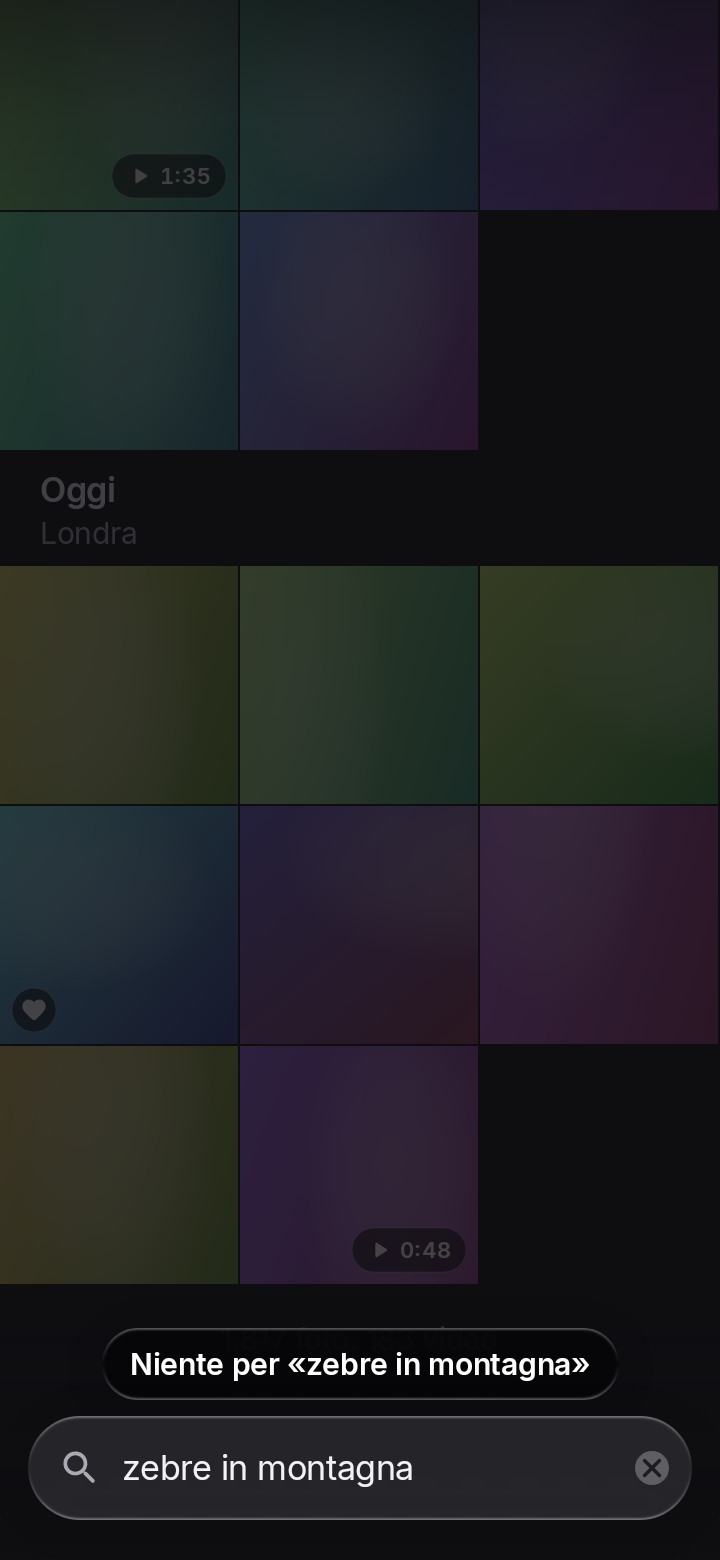
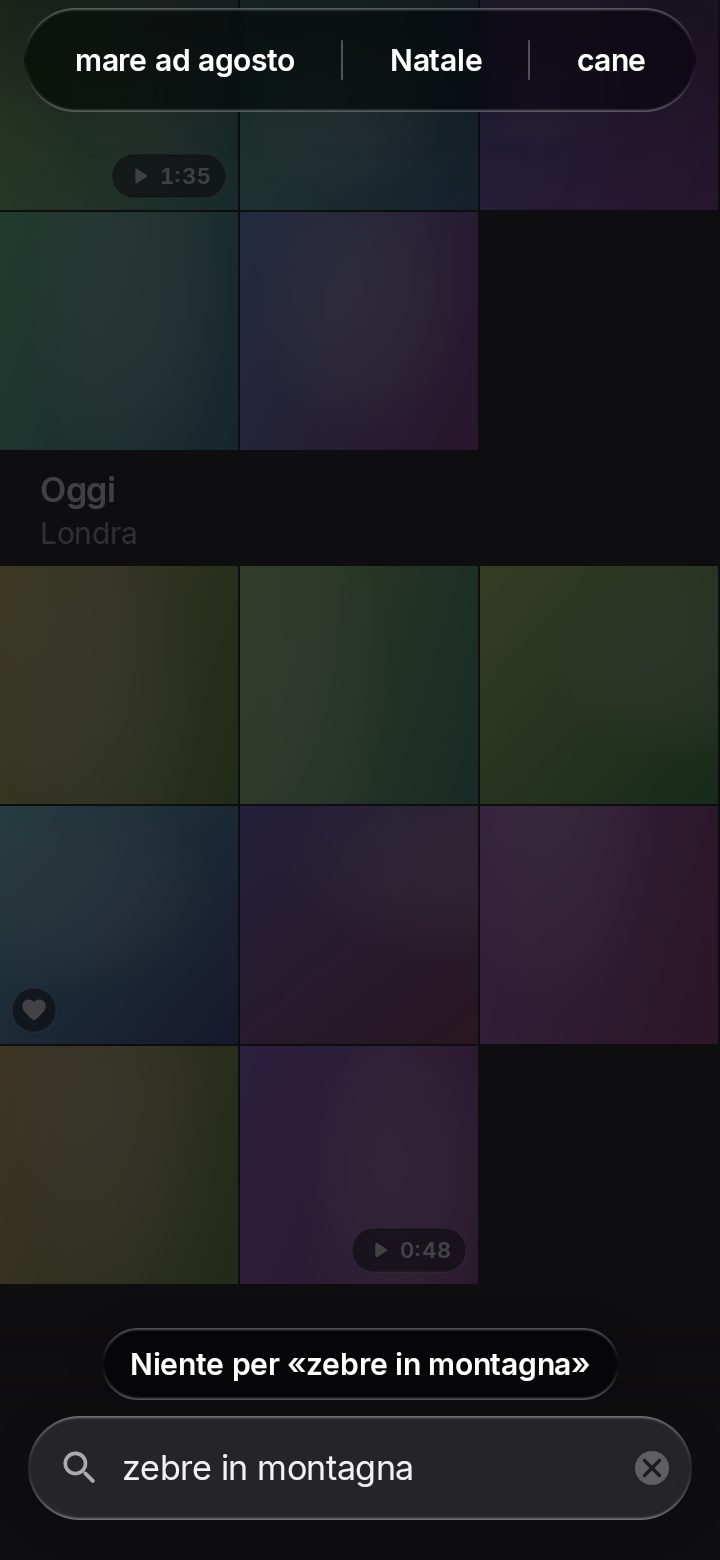
Screenshot (H4, giro 2): suggerimenti interi, recenti senza risultati, riepilogo spento, barra che cresce con l'ombra
Rifatti: suggerimenti-lunghi (con «compleanno della nonna»: si vede intera, chiaro e scuro, e col testo a 1,3x), nessun-risultato (in alto le ultime ricerche, il riepilogo in fondo non c'e' piu' dietro la riga), apertura-a-meta-da-album (il capo destro con la sua ombra, nessuna scritta tagliata), aperta-campo-vuoto e aperta-tastiera-libreria-alzata (il riepilogo in fondo sfuma con la ricerca aperta).

diff --git a/app/src/test/kotlin/dev/pampa/mycloudgallery/H4RicercaScreenshotTest.kt b/app/src/test/kotlin/dev/pampa/mycloudgallery/H4RicercaScreenshotTest.kt
@@ -121,8 +121,8 @@ internal abstract class H4RicercaScreenshotBase(private val dark: Boolean, priva
   }
 
   /**
-   * Nessun risultato (CU-11 del giro 1): una riga sola sopra la barra e, dietro, la Libreria attenuata da un velo (non uno schermo vuoto); senza
-   * completamenti la barra in alto si e' ritirata.
+   * Nessun risultato (CU-11 del giro 1, CS-12 e CS-23 del giro 2): una riga sola sopra la barra, dietro la Libreria attenuata da un velo (non uno schermo
+   * vuoto) senza il riepilogo in fondo, e in alto le ultime ricerche da cui ripartire.
    */
   @Test
   fun nessunRisultato() {
@@ -241,7 +241,7 @@ internal class H4RicercaPhoneScreenshotTest(dark: Boolean) : H4RicercaScreenshot
   private fun longSuggestions(scenes: ScaffoldScenes) = FixedSearchSource(
     query = "compleanno",
     suggestions = listOf(
-      Suggestion.Recent(HistoryEntry(1, "compleanno della nonna a Firenze", emptyList())),
+      Suggestion.Recent(HistoryEntry(1, "compleanno della nonna", emptyList())),
       Suggestion.PlaceSuggestion(PlaceOption(setOf(7), "Castiglione della Pescaia", PlaceLevel.PLACE)),
       Suggestion.Recent(HistoryEntry(2, "compleanno di Anna al mare", emptyList())),
     ),
@@ -249,8 +249,8 @@ internal class H4RicercaPhoneScreenshotTest(dark: Boolean) : H4RicercaScreenshot
   )
 
   /**
-   * CU-2 del giro 1: a 360 dp i tre suggerimenti lunghi restano **distinguibili** (prima «comple… | Castigli… | comple…»): il testo si rimpicciolisce,
-   * poi la parte gia' scritta diventa i puntini all'inizio.
+   * CU-2 (giri 1 e 2): a 360 dp i suggerimenti lunghi si mostrano **interi**, come la barra delle parole della tastiera (prima «comple… | Castigli… |
+   * comple…», poi «…della nonn… | Castiglione… | …di Anna al…»): quelli che entrano interi, il piu' adatto per primo.
    */
   @Test
   fun suggerimentiLunghi() {
@@ -258,7 +258,7 @@ internal class H4RicercaPhoneScreenshotTest(dark: Boolean) : H4RicercaScreenshot
     shoot("suggerimenti-lunghi") { GalleryScaffold(scenes, GalleryTab.Library, searchOpen = true, search = longSuggestions(scenes)) }
   }
 
-  /** Gli stessi con il testo a 1,3x (solo in chiaro): ancora distinguibili, senza andare a capo. */
+  /** Gli stessi con il testo a 1,3x (solo in chiaro): ancora interi (meno voci), senza puntini ne' a capo. */
   @Test
   fun suggerimentiLunghiTestoGrande() {
     if (dark) return

diff --git a/app/src/test/kotlin/dev/pampa/mycloudgallery/ScaffoldScenes.kt b/app/src/test/kotlin/dev/pampa/mycloudgallery/ScaffoldScenes.kt
@@ -147,10 +147,18 @@ internal class ScaffoldScenes(
   )
 
   /**
-   * Nessun risultato per «zebre in montagna»: la Libreria attenuata dietro (CU-11) e una riga sola sopra la barra; nessun completamento, la barra in alto si
-   * ritira.
+   * Nessun risultato per «zebre in montagna»: la Libreria attenuata dietro (CU-11), una riga sola sopra la barra e, in alto, le ultime ricerche da cui
+   * ripartire (CS-12 del giro 2).
    */
-  val searchNothing: SearchSource = FixedSearchSource(query = "zebre in montagna", state = SearchScreenState.NoResults("zebre in montagna", emptyList()))
+  val searchNothing: SearchSource = FixedSearchSource(
+    query = "zebre in montagna",
+    suggestions = listOf(
+      Suggestion.Recent(HistoryEntry(1, "mare ad agosto", listOf("Agosto"))),
+      Suggestion.Recent(HistoryEntry(2, "Natale", emptyList())),
+      Suggestion.Recent(HistoryEntry(3, "cane", emptyList())),
+    ),
+    state = SearchScreenState.NoResults("zebre in montagna", emptyList()),
+  )
 
   /** "Trova simili" da una foto: il campo vuoto, i simili per pertinenza, la riga che dice da dove vengono. */
   val searchSimilar: SearchSource = FixedSearchSource(
